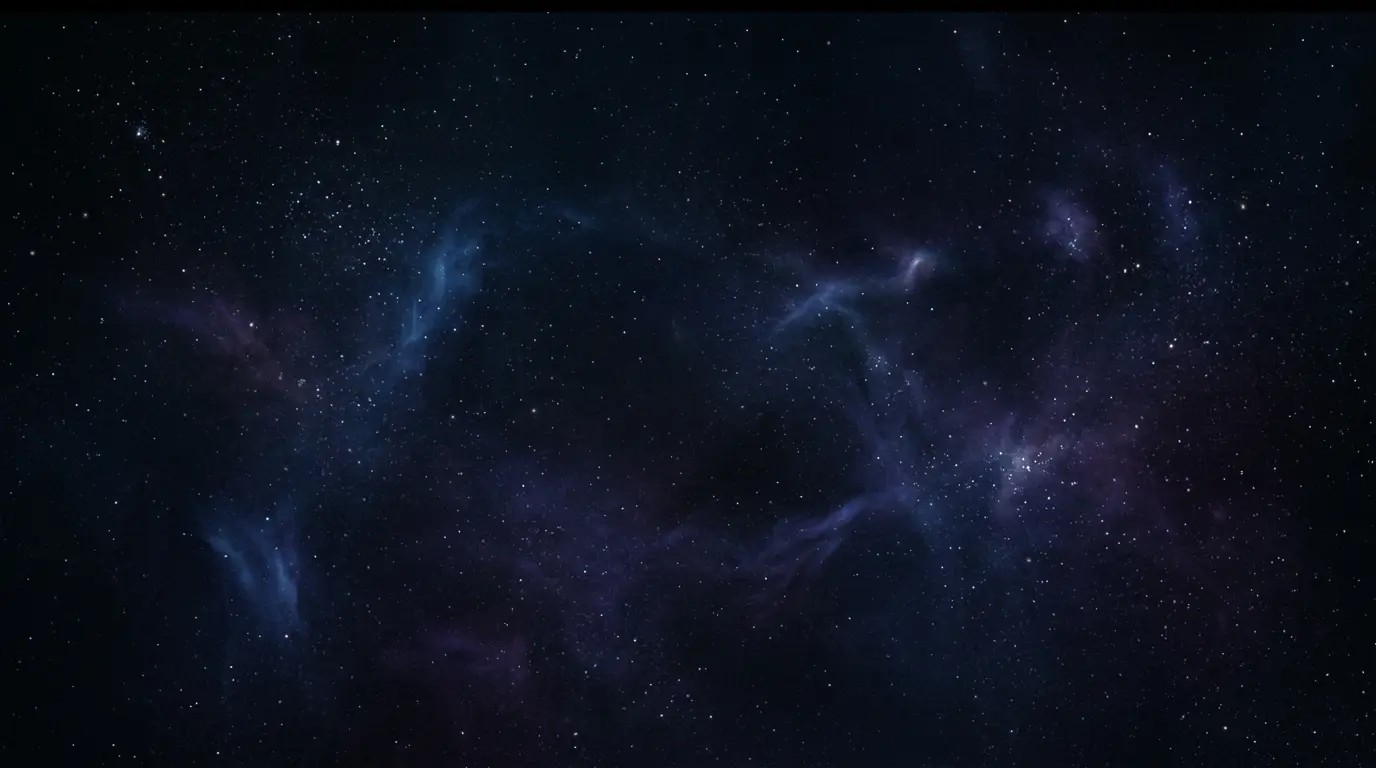
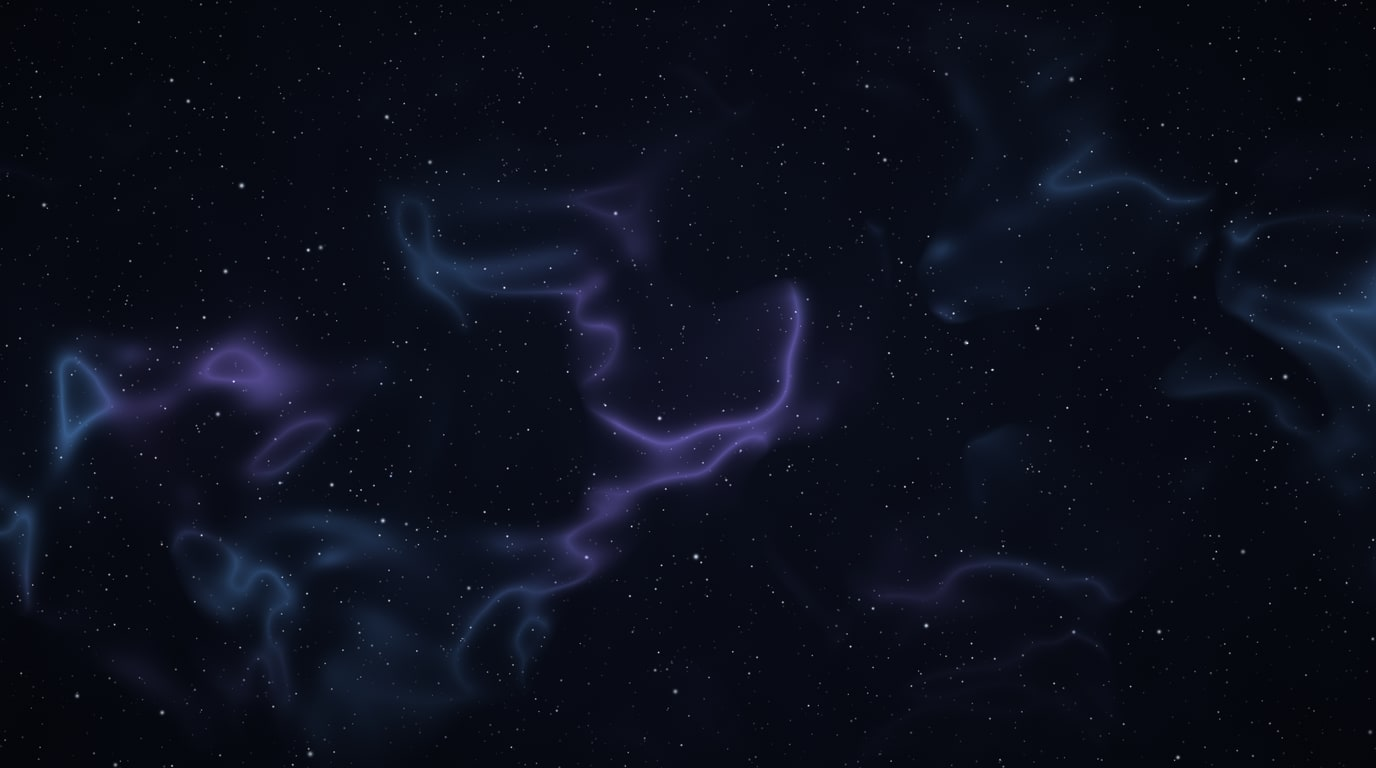
sharpen backdrop fallbacks on md+ and split poster/profile fallbacks
- add procedural starfield generator (scripts/generate-backdrop-fallback.js)
  producing a 2560x1440 backdrop plus portrait poster/profile variants with
  centered film-reel and avatar icons
- serve the large backdrop at md+ in TopBackdrop and via srcSet for the
  movie page fallback (next/image strips srcSet, so a plain img is used)
- point missing person photos at profile_fallback.webp
- add 1920 to deviceSizes so real TMDB backdrops resolve to original size
  on large screens

Generated with [Devin](https://devin.ai)

diff --git a/scripts/generate-backdrop-fallback.js b/scripts/generate-backdrop-fallback.js
@@ -1,0 +1,262 @@
+const sharp = require('sharp')
+const path = require('path')
+
+const OUT_DIR = path.join(__dirname, '..', 'public')
+
+function mulberry32(seed) {
+  return function () {
+    seed |= 0
+    seed = (seed + 0x6D2B79F5) | 0
+    let t = Math.imul(seed ^ (seed >>> 15), 1 | seed)
+    t = (t + Math.imul(t ^ (t >>> 7), 61 | t)) ^ t
+    return ((t ^ (t >>> 14)) >>> 0) / 4294967296
+  }
+}
+
+function makeNoiseLayer(rand, gw, gh) {
+  const g = new Float32Array(gw * gh)
+  for (let i = 0; i < g.length; i++) g[i] = rand()
+  const at = (x, y) => g[(((y % gh) + gh) % gh) * gw + (((x % gw) + gw) % gw)]
+  const cubic = (p0, p1, p2, p3, t) =>
+    p1 + 0.5 * t * (p2 - p0 + t * (2 * p0 - 5 * p1 + 4 * p2 - p3 + t * (3 * (p1 - p2) + p3 - p0)))
+  return (u, v) => {
+    const x = (((u % 1) + 1) % 1) * gw
+    const y = (((v % 1) + 1) % 1) * gh
+    const x0 = Math.floor(x)
+    const y0 = Math.floor(y)
+    const fx = x - x0
+    const fy = y - y0
+    const r0 = cubic(at(x0 - 1, y0 - 1), at(x0, y0 - 1), at(x0 + 1, y0 - 1), at(x0 + 2, y0 - 1), fx)
+    const r1 = cubic(at(x0 - 1, y0), at(x0, y0), at(x0 + 1, y0), at(x0 + 2, y0), fx)
+    const r2 = cubic(at(x0 - 1, y0 + 1), at(x0, y0 + 1), at(x0 + 1, y0 + 1), at(x0 + 2, y0 + 1), fx)
+    const r3 = cubic(at(x0 - 1, y0 + 2), at(x0, y0 + 2), at(x0 + 1, y0 + 2), at(x0 + 2, y0 + 2), fx)
+    return cubic(r0, r1, r2, r3, fy)
+  }
+}
+
+function fbm(layers, u, v) {
+  let sum = 0
+  let amp = 1
+  let norm = 0
+  for (const layer of layers) {
+    sum += amp * layer(u, v)
+    norm += amp
+    amp *= 0.55
+  }
+  return sum / norm
+}
+
+// signed distance to icon shape, coords normalized to icon half-size
+function iconSdf(icon, nx, ny) {
+  if (icon === 'avatar') {
+    const head = Math.hypot(nx, ny + 0.42) - 0.34
+    const shoulders = Math.hypot(nx / 0.74, (ny - 0.52) / 0.55) - 1
+    return Math.min(head, shoulders)
+  }
+  const disc = Math.hypot(nx, ny) - 0.95
+  let holes = Math.hypot(nx, ny) - 0.13
+  for (let k = 0; k < 5; k++) {
+    const a = -Math.PI / 2 + (k * 2 * Math.PI) / 5
+    holes = Math.min(holes, Math.hypot(nx - Math.cos(a) * 0.56, ny - Math.sin(a) * 0.56) - 0.185)
+  }
+  const ta = 0.6
+  const tx = nx - 0.98
+  const ty = ny - 0.62
+  const rx = tx * Math.cos(ta) + ty * Math.sin(ta)
+  const ry = -tx * Math.sin(ta) + ty * Math.cos(ta)
+  const qx = Math.abs(rx) - 0.32
+  const qy = Math.abs(ry) - 0.10
+  const tail = Math.hypot(Math.max(qx, 0), Math.max(qy, 0)) + Math.min(Math.max(qx, qy), 0) - 0.05
+  return Math.max(Math.min(disc, tail), -holes)
+}
+
+function buildFrame({ width, height, seed, portrait = false, icon = null }) {
+  const W = width
+  const H = height
+  const rand = mulberry32(seed)
+  const aspect = W / H
+  const gs = (s) => Math.max(1, Math.round(s * aspect * 1.125))
+
+  const densityOctaves = [4, 8, 16].map((s) => makeNoiseLayer(rand, gs(s), s))
+  const filamentOctaves = [6, 12, 24].map((s) => makeNoiseLayer(rand, gs(s), s))
+  const hueOctaves = [3, 6].map((s) => makeNoiseLayer(rand, gs(s), s))
+  const warpA = portrait ? makeNoiseLayer(rand, 8, 12) : makeNoiseLayer(rand, 12, 6)
+  const warpB = portrait ? makeNoiseLayer(rand, 8, 12) : makeNoiseLayer(rand, 12, 6)
+  const bandNoise = portrait ? makeNoiseLayer(rand, 1, 8) : makeNoiseLayer(rand, 8, 1)
+  const grain = makeNoiseLayer(rand, gs(24), 14)
+
+  const buf = new Float32Array(W * H * 3)
+
+  const BLUE = [0.16, 0.28, 0.48]
+  const PURPLE = [0.36, 0.19, 0.48]
+
+  for (let y = 0; y < H; y++) {
+    const v = y / H
+    for (let x = 0; x < W; x++) {
+      const u = x / W
+      const i = (y * W + x) * 3
+
+      const dx = (u - 0.5) * 1.6
+      const dy = (v - 0.45) * 1.15
+      const r = Math.sqrt(dx * dx + dy * dy)
+      const base = 0.075 - 0.035 * Math.min(r, 1) + 0.008 * grain(u, v)
+      buf[i] = base * 0.5
+      buf[i + 1] = base * 0.72
+      buf[i + 2] = base * 1.4
+
+      const bandCenter = portrait
+        ? 0.5 + 0.06 * Math.sin(v * 4.6 + 0.8) + 0.07 * (bandNoise(0.05, v) - 0.5)
+        : 0.52 + 0.05 * Math.sin(u * 5.1 + 0.8) + 0.07 * (bandNoise(u, 0.05) - 0.5)
+      const dBand = (portrait ? u : v) - bandCenter
+      const band = Math.exp(-(dBand * dBand) / (2 * 0.19 * 0.19))
+
+      const wu = u + 0.09 * (warpA(u, v) - 0.5)
+      const wv = v + 0.09 * (warpB(u, v) - 0.5)
+
+      const density = fbm(densityOctaves, wu, wv)
+      const ridge = 1 - Math.abs(2 * fbm(filamentOctaves, wu * 0.72 + 1.3, wv * 1.15 + 4.6) - 1)
+
+      const diffuse = Math.max(0, density - 0.36) * 0.75 * band
+      const gate = Math.min(Math.max((density - 0.42) * 6, 0), 1)
+      const core = Math.pow(ridge, 9) * band * gate
+      const halo = Math.pow(ridge, 3) * band * gate * 0.12
+
+      if (diffuse > 0.001 || core > 0.001) {
+        const hue = fbm(hueOctaves, wu + 3.7, wv + 9.1)
+        const mix = Math.min(Math.max((hue - 0.40) * 4.0, 0), 1)
+        buf[i] += diffuse * (BLUE[0] + (PURPLE[0] - BLUE[0]) * mix) * 0.25 + halo * 0.06 + core * (0.20 + 0.10 * mix)
+        buf[i + 1] += diffuse * (BLUE[1] + (PURPLE[1] - BLUE[1]) * mix) * 0.25 + halo * 0.11 + core * (0.33 - 0.08 * mix)
+        buf[i + 2] += diffuse * (BLUE[2] + (PURPLE[2] - BLUE[2]) * mix) * 0.25 + halo * 0.20 + core * 0.48
+      }
+    }
+  }
+
+  function stampStar(cx, cy, sigma, amp, cr, cg, cb) {
+    const rad = Math.ceil(sigma * 3)
+    const x0 = Math.max(0, Math.floor(cx) - rad)
+    const x1 = Math.min(W - 1, Math.floor(cx) + rad)
+    const y0 = Math.max(0, Math.floor(cy) - rad)
+    const y1 = Math.min(H - 1, Math.floor(cy) + rad)
+    const inv = 1 / (2 * sigma * sigma)
+    for (let y = y0; y <= y1; y++) {
+      for (let x = x0; x <= x1; x++) {
+        const d2 = (x - cx) * (x - cx) + (y - cy) * (y - cy)
+        const w = amp * Math.exp(-d2 * inv)
+        if (w < 0.003) continue
+        const i = (y * W + x) * 3
+        buf[i] += w * cr
+        buf[i + 1] += w * cg
+        buf[i + 2] += w * cb
+      }
+    }
+  }
+
+  const STAR_COUNT = Math.round(3600 * (W * H) / (2560 * 1440))
+  for (let s = 0; s < STAR_COUNT; s++) {
+    const cx = rand() * W
+    const cy = rand() * H
+    const bright = 0.14 + Math.pow(rand(), 3.2) * 0.9
+    const sigma = 0.55 + rand() * 0.75
+    const tint = rand()
+    let cr = 1, cg = 1, cb = 1
+    if (tint < 0.18) {
+      cr = 0.72; cg = 0.85; cb = 1.0
+    } else if (tint < 0.30) {
+      cr = 1.0; cg = 0.92; cb = 0.82
+    }
+    stampStar(cx, cy, sigma, bright, cr, cg, cb)
+  }
+
+  const BRIGHT_STARS = Math.round(45 * (W * H) / (2560 * 1440))
+  for (let s = 0; s < BRIGHT_STARS; s++) {
+    const cx = rand() * W
+    const cy = rand() * H
+    const bright = 0.55 + rand() * 0.45
+    stampStar(cx, cy, 1.6 + rand() * 1.4, bright, 0.9, 0.95, 1.0)
+  }
+
+  if (icon) {
+    const R = Math.min(W, H) * 0.19
+    const cx = Math.round(W * 0.5)
+    const cy = Math.round(H * 0.47)
+    const pad = Math.ceil(R * 1.5)
+    const ICON_RGB = [0.78, 0.84, 0.94]
+    for (let y = Math.max(0, cy - pad); y < Math.min(H, cy + pad); y++) {
+      for (let x = Math.max(0, cx - pad); x < Math.min(W, cx + pad); x++) {
+        const nx = (x - cx) / R
+        const ny = (y - cy) / R
+        const d = iconSdf(icon, nx, ny)
+        const alpha = Math.min(Math.max(0.5 - d * R * 0.6, 0), 1)
+        const glow = d > 0 ? Math.exp(-d * 6) * 0.10 : 0
+        const a = alpha * 0.9 + glow * (1 - alpha)
+        if (a <= 0.001) continue
+        const i = (y * W + x) * 3
+        buf[i] += (ICON_RGB[0] - buf[i]) * a
+        buf[i + 1] += (ICON_RGB[1] - buf[i + 1]) * a
+        buf[i + 2] += (ICON_RGB[2] - buf[i + 2]) * a
+      }
+    }
+  }
+
+  const out = Buffer.alloc(W * H * 3)
+  for (let y = 0; y < H; y++) {
+    const v = y / H
+    for (let x = 0; x < W; x++) {
+      const u = x / W
+      const dx = u - 0.5
+      const dy = v - 0.5
+      const vig = 1 - 0.20 * Math.pow(Math.sqrt(dx * dx + dy * dy) * 1.6, 2.2)
+      const i = (y * W + x) * 3
+      const dither = rand() - 0.5
+      for (let c = 0; c < 3; c++) {
+        const p = buf[i + c] * vig
+        out[i + c] = p < 0 ? 0 : p > 1 ? 255 : Math.round(p * 255 + dither)
+      }
+    }
+  }
+  return out
+}
+
+async function main() {
+  const jobs = [
+    {
+      frame: { width: 2560, height: 1440, seed: 20260921 },
+      targets: [
+        { file: 'backdrop_fallback_lg.webp', width: 2560, height: 1440, format: 'webp', opts: { quality: 82 } },
+        { file: 'backdrop_fallback.webp', width: 1376, height: 768, format: 'webp', opts: { quality: 82 } },
+        { file: 'backdrop_fallback.jpg', width: 1376, height: 768, format: 'jpeg', opts: { quality: 88, mozjpeg: true } }
+      ]
+    },
+    {
+      frame: { width: 1024, height: 1536, seed: 20261001, portrait: true, icon: 'reel' },
+      targets: [
+        { file: 'poster_fallback.webp', width: 1024, height: 1536, format: 'webp', opts: { quality: 82 } }
+      ]
+    },
+    {
+      frame: { width: 1024, height: 1536, seed: 20261002, portrait: true, icon: 'avatar' },
+      targets: [
+        { file: 'profile_fallback.webp', width: 1024, height: 1536, format: 'webp', opts: { quality: 82 } }
+      ]
+    }
+  ]
+
+  for (const job of jobs) {
+    const frame = buildFrame(job.frame)
+    const master = sharp(frame, { raw: { width: job.frame.width, height: job.frame.height, channels: 3 } })
+    for (const t of job.targets) {
+      let img = master.clone()
+      if (t.width !== job.frame.width) img = img.resize(t.width, t.height)
+      img = t.format === 'webp' ? img.webp(t.opts) : img.jpeg(t.opts)
+      const dest = path.join(OUT_DIR, t.file)
+      await img.toFile(dest)
+      const info = await sharp(dest).metadata()
+      console.log(`${t.file}: ${info.width}x${info.height}`)
+    }
+  }
+}
+
+main().catch((err) => {
+  console.error(err)
+  process.exit(1)
+})

diff --git a/src/pages/movies/[movieId].jsx b/src/pages/movies/[movieId].jsx
@@ -279,15 +279,25 @@ export default function Movie({ movie, movieError, videoKey, watchProviders, dir
             }
           }}
         >
-          <Image
-            src={backdropSrc}
-            alt={movie.title || 'Movie Backdrop'}
-            fill
-            priority
-            sizes='100vw'
-            onError={() => setBackdropSrc('/backdrop_fallback.webp')}
-            unoptimized={backdropSrc === '/backdrop_fallback.webp'}
-          />
+          {backdropSrc === '/backdrop_fallback.webp' ? (
+            <img
+              src='/backdrop_fallback_lg.webp'
+              srcSet='/backdrop_fallback.webp 1376w, /backdrop_fallback_lg.webp 2560w'
+              sizes='100vw'
+              alt={movie.title || 'Movie Backdrop'}
+              fetchpriority='high'
+              style={{ position: 'absolute', inset: 0, width: '100%', height: '100%' }}
+            />
+          ) : (
+            <Image
+              src={backdropSrc}
+              alt={movie.title || 'Movie Backdrop'}
+              fill
+              priority
+              sizes='100vw'
+              onError={() => setBackdropSrc('/backdrop_fallback.webp')}
+            />
+          )}
         </Box>
         <Box
           position='absolute'

diff --git a/src/pages/person/[personId].jsx b/src/pages/person/[personId].jsx
@@ -80,7 +80,7 @@ export default function PersonDetails({ person, directedMovies, actingMovies, er
 
   const profilePath = person.profile_path 
     ? `https://image.tmdb.org/t/p/w500${person.profile_path}` 
-    : '/poster_fallback.webp'
+    : '/profile_fallback.webp'
   const [profileSrc, setProfileSrc] = useState(profilePath)
   const siteUrl = process.env.NEXT_PUBLIC_SITE_URL || 'https://galaxymovies.app'
   const canonicalUrl = `${siteUrl}/person/${person.id}`
@@ -192,7 +192,7 @@ export default function PersonDetails({ person, directedMovies, actingMovies, er
                     fill
                     priority
                     sizes='(max-width: 768px) 100vw, 320px'
-                    onError={() => setProfileSrc('/poster_fallback.webp')}
+                    onError={() => setProfileSrc('/profile_fallback.webp')}
                     style={{
                       objectFit: 'cover',
                       borderRadius: '1rem',

diff --git a/src/components/TopBackdrop.jsx b/src/components/TopBackdrop.jsx
@@ -9,7 +9,7 @@ export default function TopBackdrop(props) {
       right={0}
       h={{ base: '14rem', md: '22rem' }}
       pointerEvents='none'
-      bgImage="url('/backdrop_fallback.webp')"
+      bgImage={{ base: "url('/backdrop_fallback.webp')", md: "url('/backdrop_fallback_lg.webp')" }}
       bgSize='cover'
       bgPosition='center 20%'
       _before={{

diff --git a/next.config.js b/next.config.js
@@ -8,7 +8,7 @@ const nextConfig = {
   images: {
     loader: 'custom',
     loaderFile: './src/utils/imageLoader.js',
-    deviceSizes: [640, 750, 828, 1080, 1200],
+    deviceSizes: [640, 750, 828, 1080, 1200, 1920],
     imageSizes: [16, 32, 48, 64, 96, 128, 256, 384]
   }
 }
